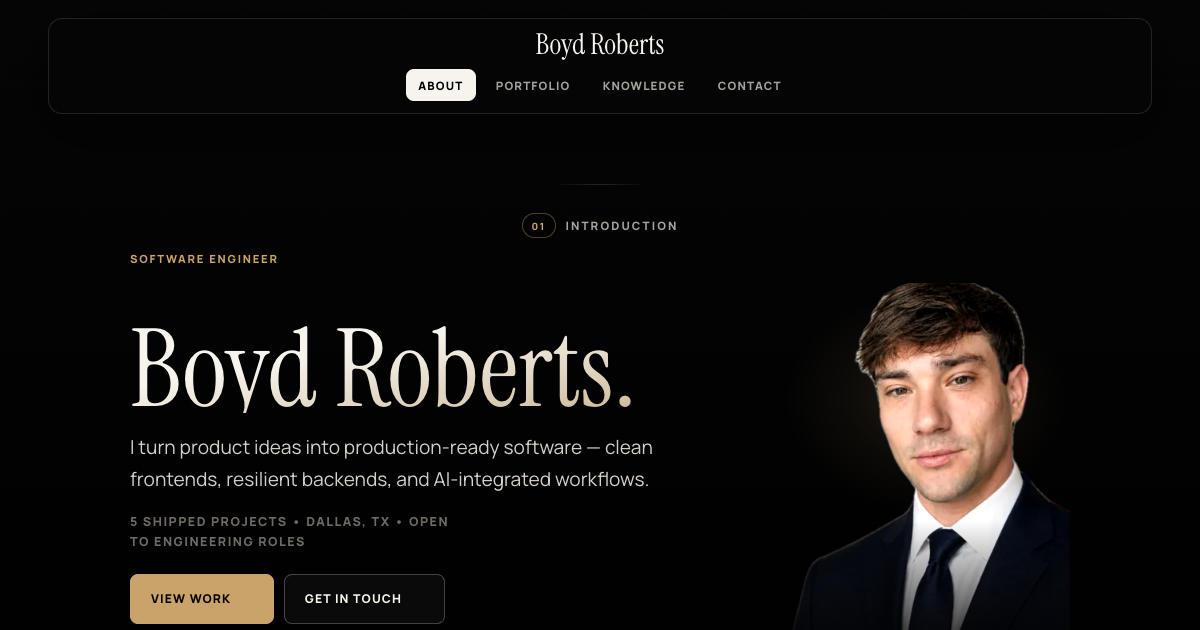
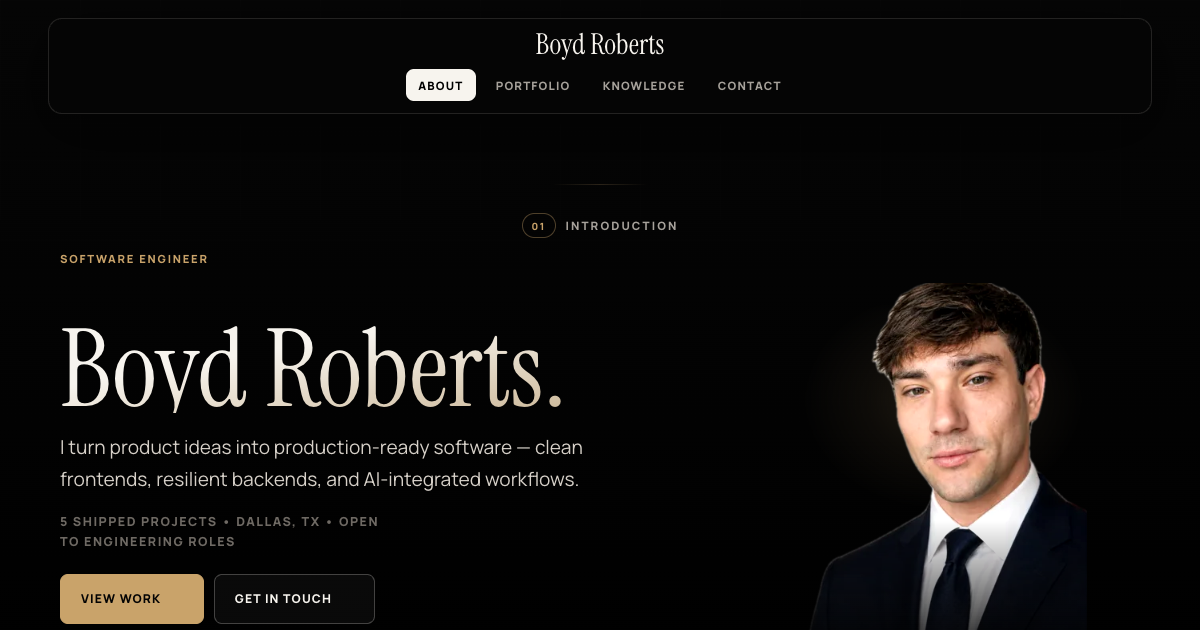
widen desktop hero composition

diff --git a/src/editorial.css b/src/editorial.css
@@ -266,7 +266,7 @@ a {
 }
 
 .about-header-wrap {
-  width: min(940px, 100%);
+  width: min(1080px, 100%);
   position: relative;
   display: grid;
   justify-items: center;
